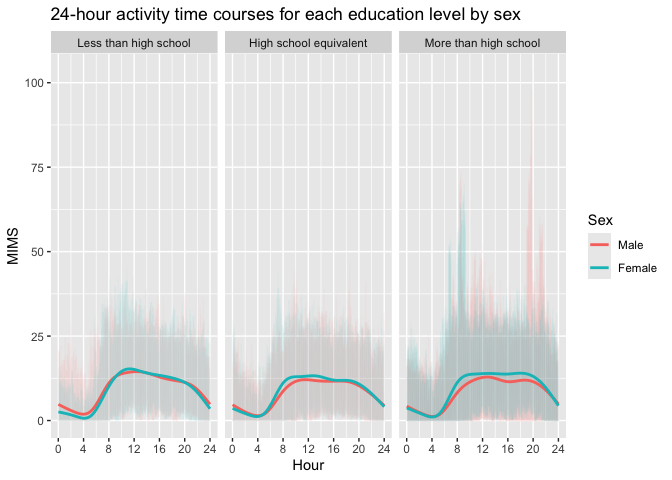
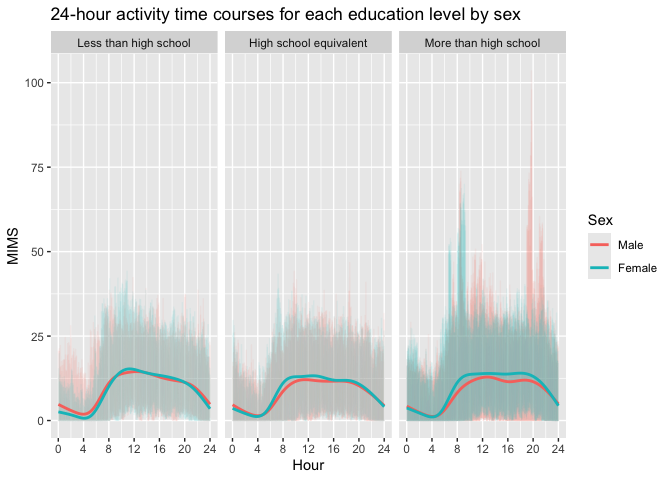
Final edits and checking over on 10/15

Changed region(s): [[0.5938, 0.4688, 0.8438, 0.875]]

diff --git a/p8105_hw3_sig2127.md b/p8105_hw3_sig2127.md
@@ -24,9 +24,9 @@ library(tidyverse)
 ``` r
 demo_df = 
   read_csv(
-    file = "Data/nhanes_covar.csv") |>
+    file = "Data/nhanes_covar.csv",
+    na = c(".", "NA", "")) |>
     janitor::clean_names() |>
-    slice(-(1:4)) |> 
     rename(
       SEQN = x1, 
       Sex = x1_male, 
@@ -49,17 +49,17 @@ demo_df =
     Age = as.numeric(Age), 
     BMI = as.numeric(BMI), 
     SEQN = as.numeric(SEQN), 
-    Sex = factor(Sex, levels = c("Male", "Female")),
+    Sex = factor(
+      Sex, 
+      levels = c("Male", "Female")
+      ),
     Education = factor(
-      Education,
-      levels = c("Less than high school",
-                 "High school equivalent",
-                 "More than high school"),
-      ordered = TRUE
-    )
-    )|>
+      Education, 
+      levels = c("Less than high school", "High school equivalent", "More than high school"),
+      ordered = TRUE)
+    ) |>
     filter(
-      Age >= "21", 
+      Age >= 21, 
     ) |>
   drop_na()
 ```
@@ -75,16 +75,19 @@ demo_df =
     ## • `` -> `...3`
     ## • `` -> `...4`
 
-    ## Warning: There was 1 warning in `mutate()`.
+    ## Warning: There were 4 warnings in `mutate()`.
+    ## The first warning was:
     ## ℹ In argument: `Sex = case_match(Sex, "1" ~ "Male", "2" ~ "Female")`.
     ## Caused by warning:
     ## ! `case_match()` was deprecated in dplyr 1.2.0.
     ## ℹ Please use `recode_values()` instead.
+    ## ℹ Run `dplyr::last_dplyr_warnings()` to see the 3 remaining warnings.
 
 ``` r
 accel_df = 
   read_csv(
-    file = "Data/nhanes_accel.csv") |>
+    file = "Data/nhanes_accel.csv",
+    na = c(".", "NA", "")) |>
     janitor::clean_names() |>
   pivot_longer(
     min1:min1440, 
@@ -111,10 +114,6 @@ accel_df =
 ``` r
 combo_df =
   inner_join(demo_df, accel_df, by = "SEQN")
-
-view(demo_df)
-view(accel_df)
-view(combo_df)
 ```
 
 ## Table for the number of males and females in each education category
@@ -145,6 +144,11 @@ demo_df |>
 | More than high school  | Female |    59 |
 
 Number of males and females by education category
+
+As seen in this table, the “less than high school” and “more than high
+school” education categories are roughly equal in terms of males and
+females. The “high school eqivalent” category however, has more males
+compared to females.
 
 ## Visualization of the age distributions for men and women in each education category
 
@@ -179,8 +183,6 @@ totact_df =
   combo_df |>
   group_by(SEQN, Sex, Age, BMI, Education) |>
   summarize(total_activity = sum(MIMS, na.rm = TRUE), .groups = "drop") 
-
-view(totact_df)
 ```
 
 ## Plotting total activities against age
@@ -216,9 +218,9 @@ together.
 ``` r
 combo_df |>
   ggplot(aes(x = Minute / 60, y = MIMS, color = Sex)) +
-  geom_line(alpha = 0.04) +
+  geom_line(alpha = 0.07) +
   geom_smooth(se = FALSE) +
-  facet_grid(~ Education)  +
+  facet_grid(. ~ Education)  +
   scale_x_continuous(
     breaks = c(0, 4, 8, 12, 16, 20, 24),
     limits = c(0, 24)
@@ -255,7 +257,7 @@ jan20_df =
   read_csv(
     file = "Data/Jan 2020 Citi.csv") |>
     janitor::clean_names() |>
-  rename(
+    rename(
       `Ride ID` = ride_id, 
       `Bike Type` = rideable_type, 
       Day = weekdays, 
@@ -294,7 +296,7 @@ jul20_df =
   read_csv(
     file = "Data/July 2020 Citi.csv") |>
     janitor::clean_names() |>
-  rename(
+    rename(
       `Ride ID` = ride_id, 
       `Bike Type` = rideable_type, 
       Day = weekdays, 
@@ -333,7 +335,7 @@ jan24_df =
   read_csv(
     file = "Data/Jan 2024 Citi.csv") |>
     janitor::clean_names() |>
-  rename(
+    rename(
       `Ride ID` = ride_id, 
       `Bike Type` = rideable_type, 
       Day = weekdays, 
@@ -372,7 +374,7 @@ jul24_df =
   read_csv(
     file = "Data/July 2024 Citi.csv") |>
     janitor::clean_names() |>
-  rename(
+    rename(
       `Ride ID` = ride_id, 
       `Bike Type` = rideable_type, 
       Day = weekdays, 
@@ -408,8 +410,6 @@ jul24_df =
 
 ``` r
 combined_df = bind_rows(jan20_df, jul20_df, jan24_df, jul24_df)
-
-view(combined_df)
 ```
 
 ## Describing the resulting dataset
@@ -488,9 +488,13 @@ jul24_df |>
 combined_df |>
   separate(`Set Name`, into = c("Month", "Year")) |>
   mutate(
-    Day = factor(Day, levels = c("Monday", "Tuesday", "Wednesday", "Thursday", "Friday", "Saturday", "Sunday")
+    Day = factor(
+      Day, 
+      levels = c("Monday", "Tuesday", "Wednesday", "Thursday", "Friday", "Saturday", "Sunday")
     ),
-    Month = factor(Month, levels = c("Jan", "July"))
+    Month = factor(
+      Month, 
+      levels = c("Jan", "July"))
   ) |>
   group_by(Year, Month, Day) |>
   summarize(
@@ -533,7 +537,9 @@ combined_df |>
   filter(`Set Name` %in% c("Jan 2024", "July 2024")) |>
   separate(`Set Name`, into = c("Month", "Year")) |>
   mutate(
-    Month = factor(Month, levels = c("Jan", "July"))
+    Month = factor(
+      Month, 
+      levels = c("Jan", "July"))
   ) |>
   ggplot(aes(x = `Bike Type`, y = `Duration (Minutes)`, fill = Membership)) +
   geom_boxplot() +
@@ -541,8 +547,7 @@ combined_df |>
   labs(
     title = "Impact of month, membership status, and bike type on the distribution of ride duration in 2024",
     x = "Bike Type",
-    y = "Ride duration (minutes)",
-    fill = "Membership"
+    y = "Ride duration (minutes)"
   ) 
 ```
 
